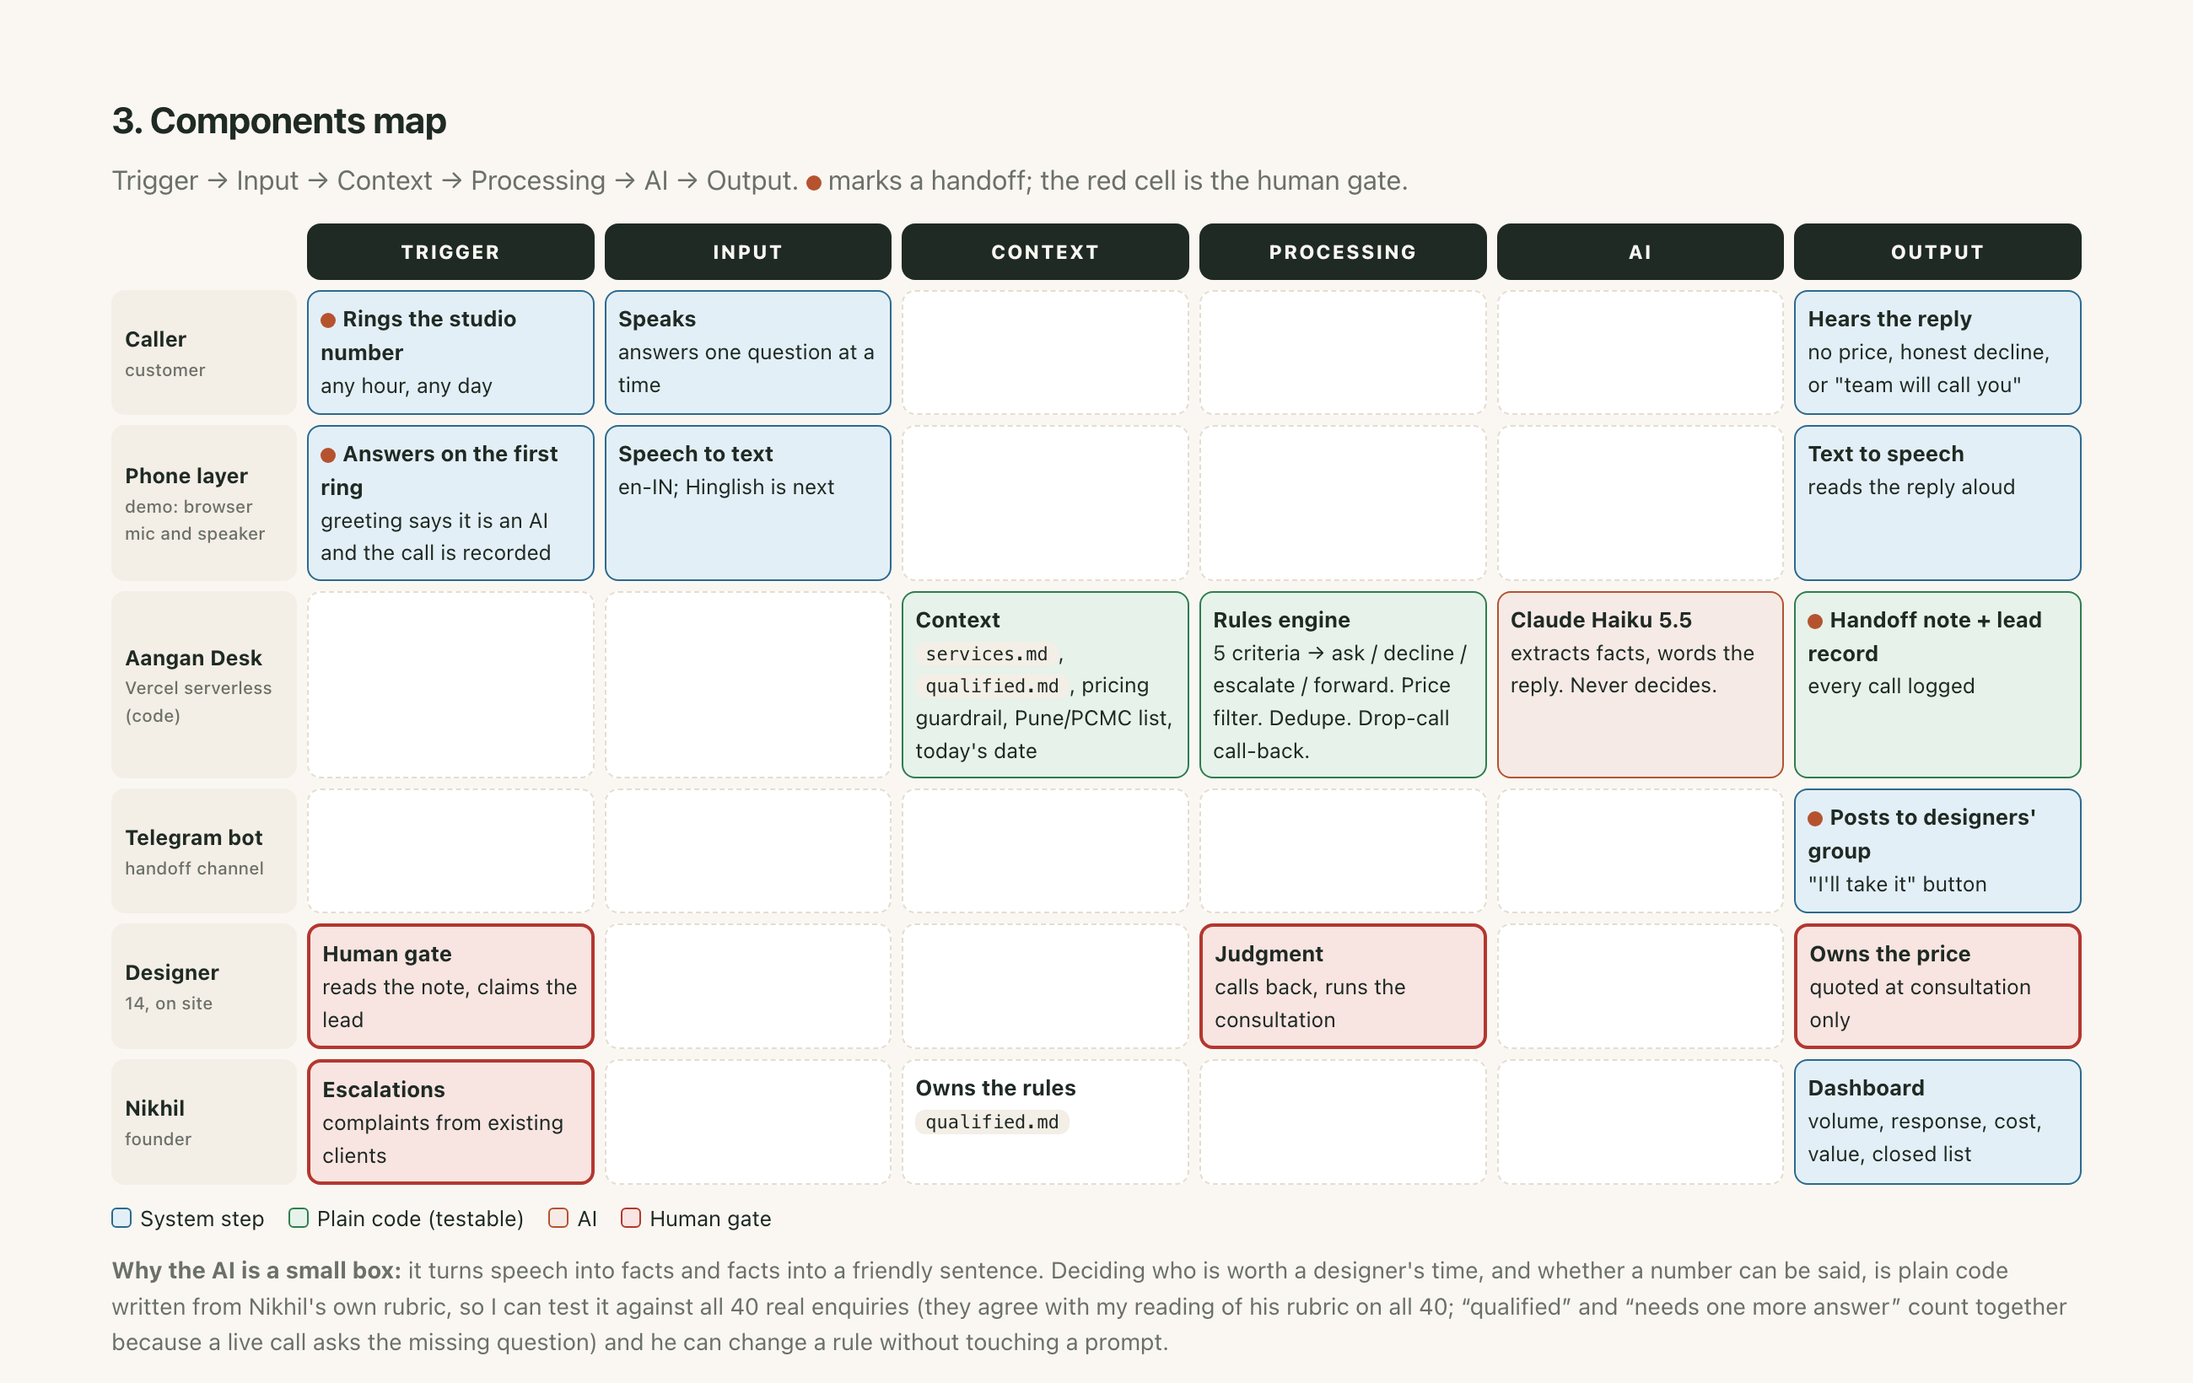
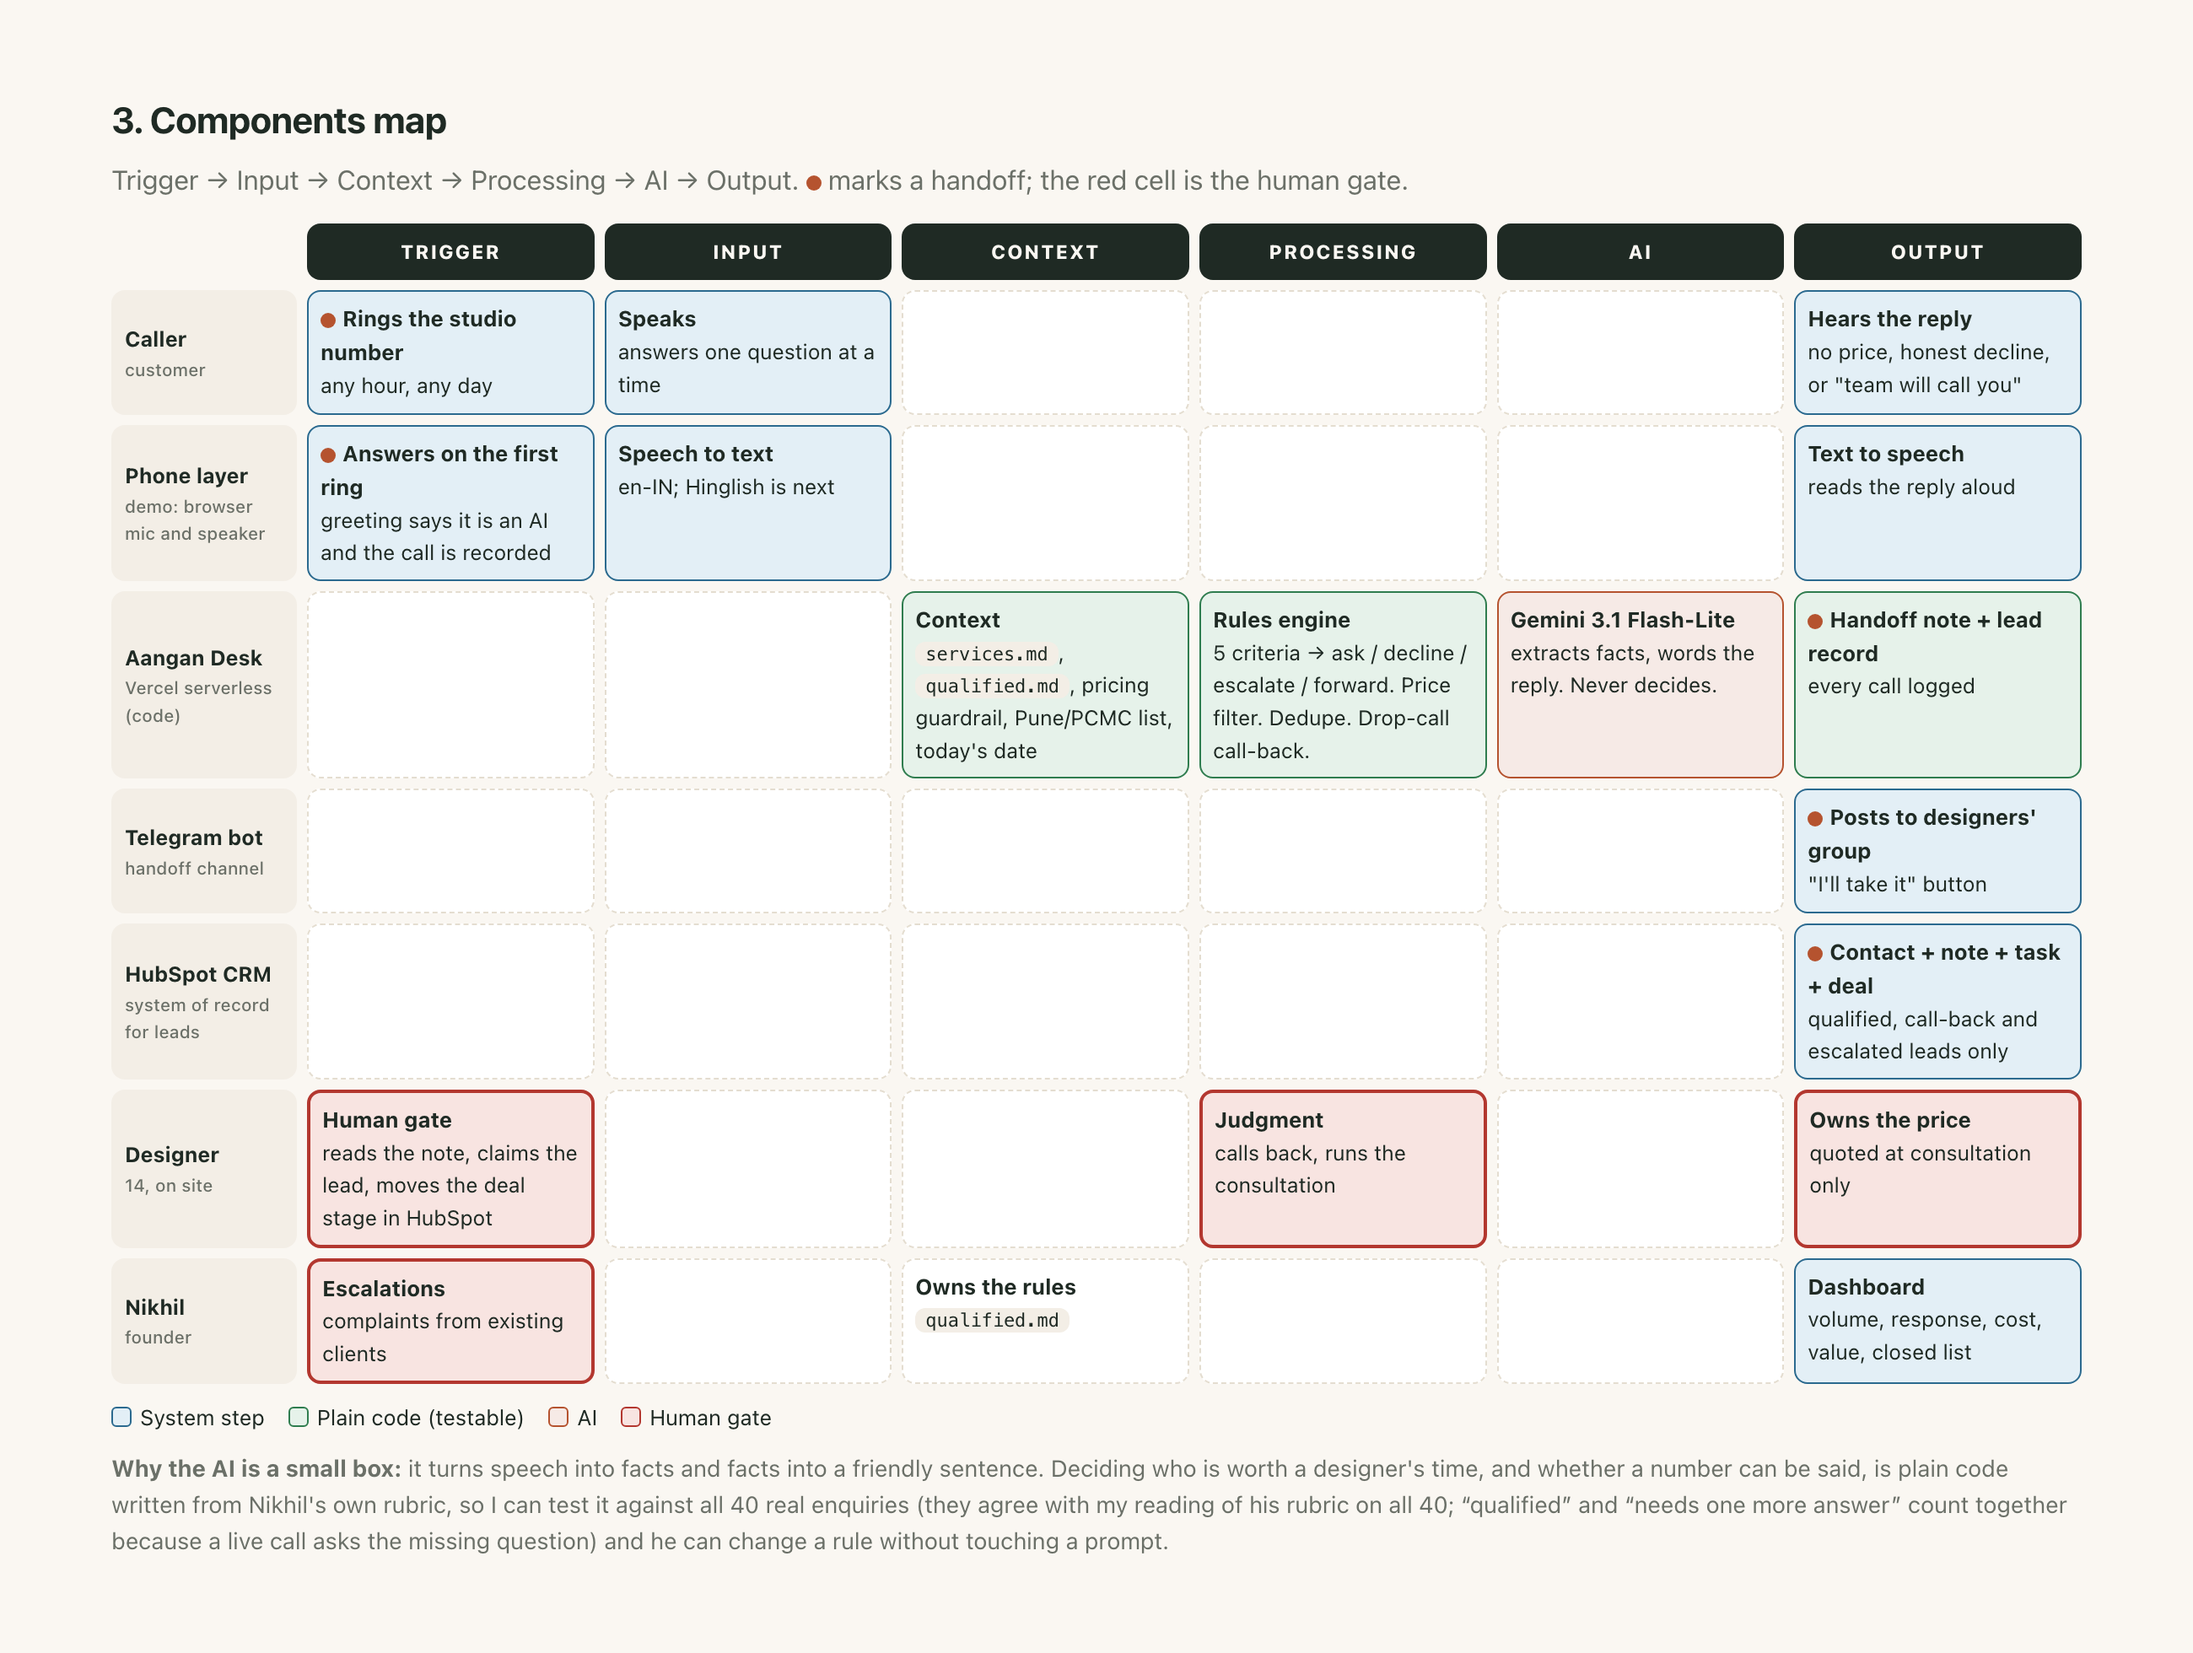
Brief: language label

diff --git a/public/brief.html b/public/brief.html
@@ -119,7 +119,7 @@ code{background:var(--surface2);padding:1px 6px;border-radius:6px;font-size:.88e
 
       <div class="a">Phone layer<small>demo: browser mic and speaker</small></div>
       <div class="c on"><b><span class="dot"></span>Answers on the first ring</b>greeting says it is an AI and the call is recorded</div>
-      <div class="c on"><b>Speech to text</b>en-IN; Hinglish is next</div>
+      <div class="c on"><b>Speech to text</b>English, Hindi and Marathi</div>
       <div class="c"></div><div class="c"></div><div class="c"></div>
       <div class="c on"><b>Text to speech</b>reads the reply aloud</div>
 
